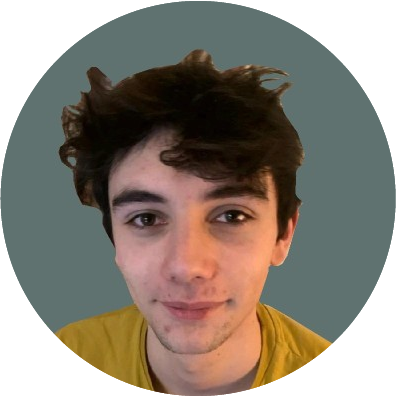
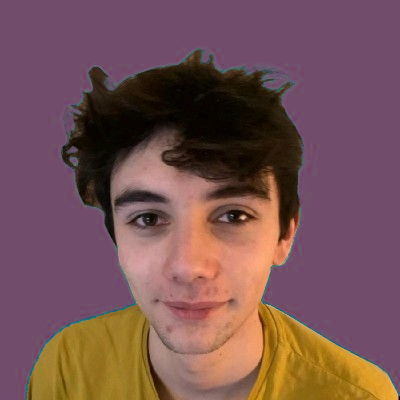
edit harry picture

diff --git a/index.html b/index.html
@@ -16,7 +16,7 @@
             <div class = "profilePicture">
                 <a href = "https://linktr.ee/harrystott">
                     <div class = "button">
-                        <img src = "assets/me.png" class = "element-shadow" onmouseover="buttonHover()">
+                        <img src = "assets/social icons/linktree.webp" class = "element-shadow" onmouseover="buttonHover()">
                     </div>    
                     <h3>Linktree</h3>                                         
                 </a>
@@ -79,9 +79,9 @@
 
             <div class = "projectIcon">           
                 <div class = "button" id = "proj1">
-                    <img src = "assets/intro.png" class = "element-shadow" onmouseover="buttonHover('proj1')">
+                    <img src = "assets/me.png" class = "element-shadow" onmouseover="buttonHover('proj1')">
                 </div>
-                <h3>Hello.</h3>
+                <h3>Harry Stott</h3>
             </div>
 
             <div class = "projectIcon">           
